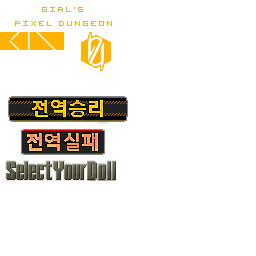
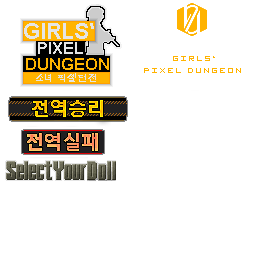
Revert "변경사항 공지 버튼 위치 및 색상 재조정"
This reverts commit b502a541abcddff75b9984c8535a198566106a0c.

Changed region(s): [[0.0, 0.0, 0.4688, 0.3438], [0.5625, 0.2188, 0.9375, 0.2812], [0.6875, 0.0, 0.8125, 0.1562]]

diff --git a/core/src/main/java/com/gfpixel/gfpixeldungeon/scenes/TitleScene.java b/core/src/main/java/com/gfpixel/gfpixeldungeon/scenes/TitleScene.java
@@ -44,7 +44,6 @@ import com.watabou.noosa.RenderedText;
 import com.watabou.noosa.audio.Music;
 import com.watabou.noosa.audio.Sample;
 import com.watabou.noosa.ui.Button;
-import com.watabou.utils.PointF;
 
 public class TitleScene extends PixelScene {
 
@@ -66,7 +65,7 @@ public class TitleScene extends PixelScene {
 		archs.setSize( w, h );
 		add( archs );
 
-		Image title = BannerSprites.get( BannerSprites.Type.PIXEL_DUNGEON_TITLE );
+		Image title = BannerSprites.get( BannerSprites.Type.PIXEL_DUNGEON_SIGNS/*PIXEL_DUNGEON*/ );
 		add( title );
 
 		float topRegion = Math.max(95f, h*0.45f);
@@ -131,24 +130,23 @@ public class TitleScene extends PixelScene {
 			btnAbout.setPos( w / 2, btnBadges.top() );
 		}
 
-		Button changes = new ChangesButton();
-		changes.setPos( w - changes.width() - PADDING, h - changes.height() - PADDING);
-		add( changes );
-
 		BitmapText version = new BitmapText( "v " + Game.version + "", pixelFont);
 		version.measure();
 		version.hardlight( 0xCCCCCC );
-		version.scale = new PointF( 1.25f, 1.25f );
-		version.x = w - changes.width() - PADDING - version.width() - PADDING;
-		version.y = h - version.height() - PADDING;
+		version.x = w - version.width();
+		version.y = h - version.height();
 		add( version );
 
+		Button changes = new ChangesButton();
+		changes.setPos( w-changes.width() - 4, h - version.height() - changes.height() - PADDING);
+		add( changes );
+		
 		int pos = PADDING;
 
 		PrefsButton btnPrefs = new PrefsButton();
 		btnPrefs.setRect( pos, PADDING, 12, 12 );
 		add( btnPrefs );
-
+		
 		pos += btnPrefs.width() + PADDING;
 
 		LanguageButton btnLang = new LanguageButton();

diff --git a/core/src/main/java/com/gfpixel/gfpixeldungeon/windows/WndStartGame.java b/core/src/main/java/com/gfpixel/gfpixeldungeon/windows/WndStartGame.java
@@ -338,7 +338,7 @@ public class WndStartGame extends Window {
 			{
 				return;
 			}
-
+			
 			heroItem.setPos(x + width - BTN_SIZE, y);
 			heroLoadout.setPos(x + width - BTN_SIZE, heroItem.bottom());
 			heroMisc.setPos(x + width - BTN_SIZE, heroLoadout.bottom());

diff --git a/core/src/main/java/com/gfpixel/gfpixeldungeon/ui/ChangesButton.java b/core/src/main/java/com/gfpixel/gfpixeldungeon/ui/ChangesButton.java
@@ -57,7 +57,7 @@ public class ChangesButton extends Button {
 
 	@Override
 	protected void onTouchDown() {
-		image.color(52/255f, 50/255f, 53/255f);
+		image.brightness( 1.5f );
 		Sample.INSTANCE.play( Assets.SND_CLICK );
 	}
 
